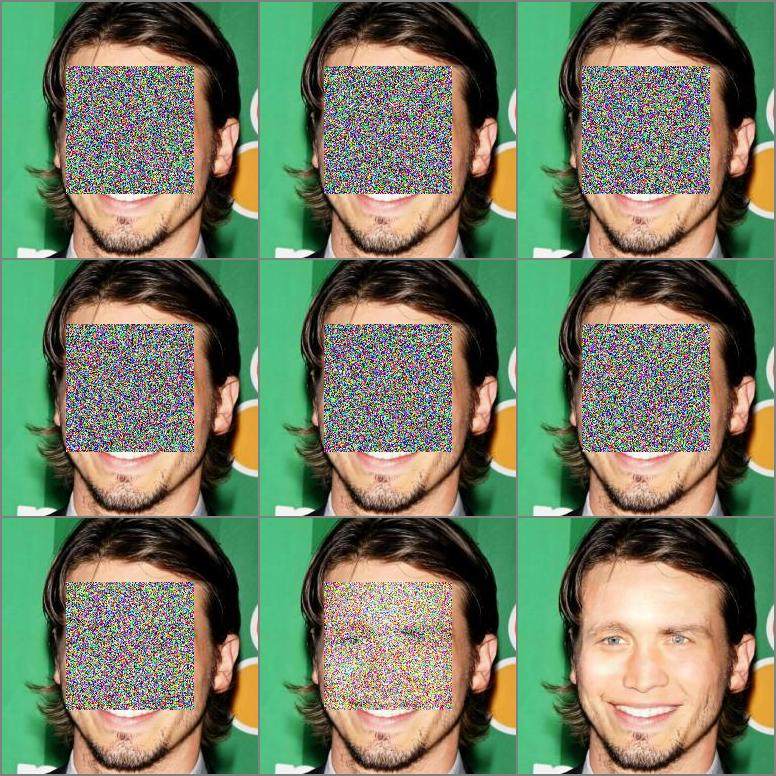
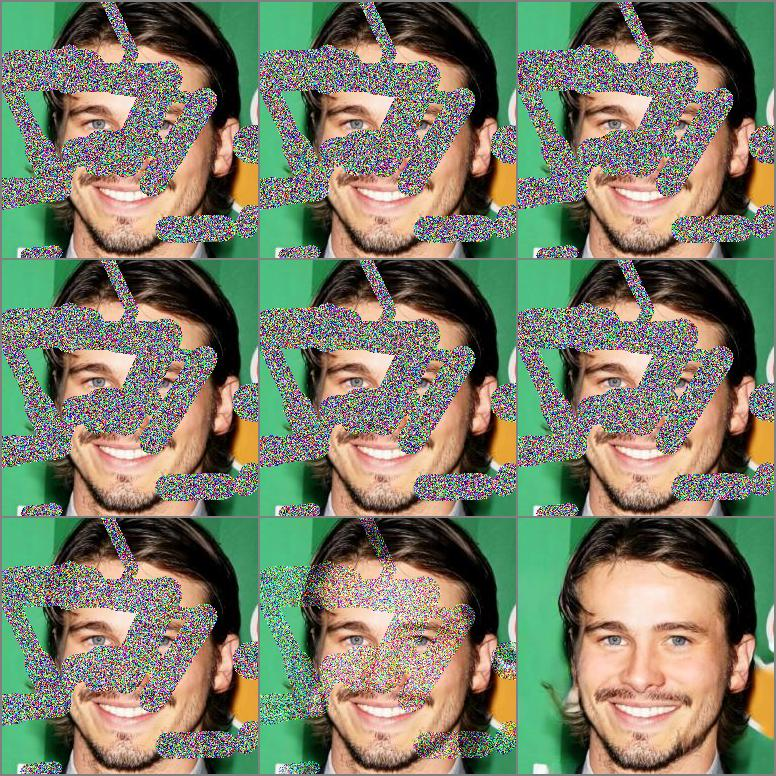
Update Celeba-HQ checkpoint

diff --git a/README.md b/README.md
@@ -15,8 +15,6 @@ There are some implementation details with paper descriptions:
 
 ## Status
 
-Due to the complete work needing a lot of GPU support, I just build the complete training pipeline and then choose some tasks or alternative datasets to evaluate.
-
 ### Code
 - [x] Diffusion Model Pipeline
 - [x] Train/Test Process
@@ -30,9 +28,9 @@ Due to the complete work needing a lot of GPU support, I just build the complete
 ### Task
 
 I try to finish following tasks in order:
-- [x] Inpainting on CelebaHQ🔥
+- [x] Inpainting on [CelebaHQ](https://drive.google.com/drive/folders/1CjZAajyf-jIknskoTQ4CGvVkAigkhNWA?usp=sharing)🚀 (available)
 - [ ] Inpainting on Places2 with 128×128 center mask🔥
-- [ ] Uncropping on Places2
+- [ ] Uncropping on Places2🔥 
 - [ ] Colorization on ImageNet val set 
 
 ## Results
@@ -41,15 +39,10 @@ I try to finish following tasks in order:
 
 #### Celeba-HQ
 
-Results with 200 epoches and 100K iterations, and we show the first 100 pictures without picking and choosing in 
+Results with 200 epochs and 930K iterations, and the first 100 samples in [centering mask](https://drive.google.com/drive/folders/10zyHZtYV5vCht2MGNCF8WzpZJT2ae2RS?usp=sharing) and [irregular mask](https://drive.google.com/drive/folders/1vmSI-R9J2yQZY1cVkSSZlTYil2DprzvY?usp=sharing). 
 
-
-
-
-
-| ![Process_26190](misc//image//Process_26190.jpg) | ![Process_25531](misc//image//center_mask.jpg) |
-| ----------------------------------------------- | ---------------------------------------------- |
-
+| ![Process_02323](misc//image//Process_02323.jpg) |    ![Process_02323](misc//image//Process_26190.jpg)  |
+| ------------------------------------------------ | ---- |
 
 
 
@@ -67,6 +60,12 @@ pip install -r requirement.txt
 ```
 
 ### Pre-trained Model
+
+| Dataset   | Task       | Iterations | URL                                                          |
+| --------- | ---------- | ---------- | ------------------------------------------------------------ |
+| Celeba-HQ | Inpainting | 930K       | [Goggle Drive](https://drive.google.com/drive/folders/13YZ2UAmGJ-b7DICr-FDAPM7gctreJEoH?usp=sharing) |
+
+
 
 ### Data Prepare
 
@@ -91,7 +90,8 @@ We use the default division of these datasets for training and evaluation. After
 More choices about **dataloader** and **validation split** also can be found in `datasets`  part of configure file.
 
 ### Training/Resume Training
-1. Set `resume_state` of configure file to the directory of previous saved model. Take the following as an example, this directory contains training states and saved model:
+1. Download the checkpoints from given links.
+1. Set `resume_state` of configure file to the directory of previous checkpoint. Take the following as an example, this directory contains training states and saved model:
 
 ```yaml
 "path": { //set every part file path
